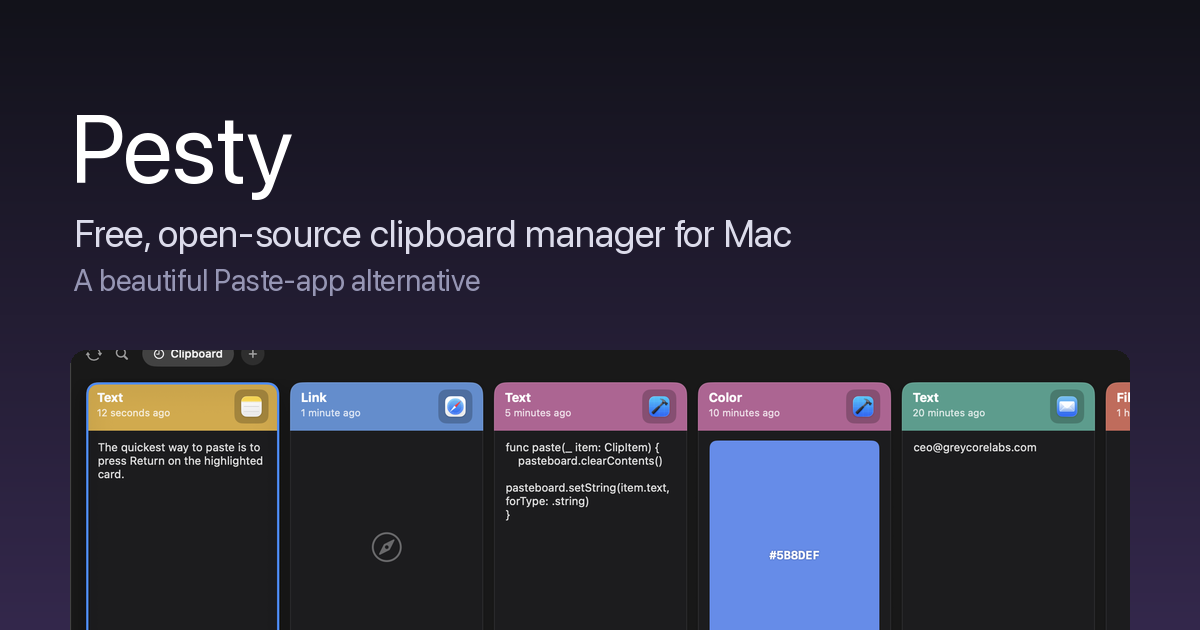
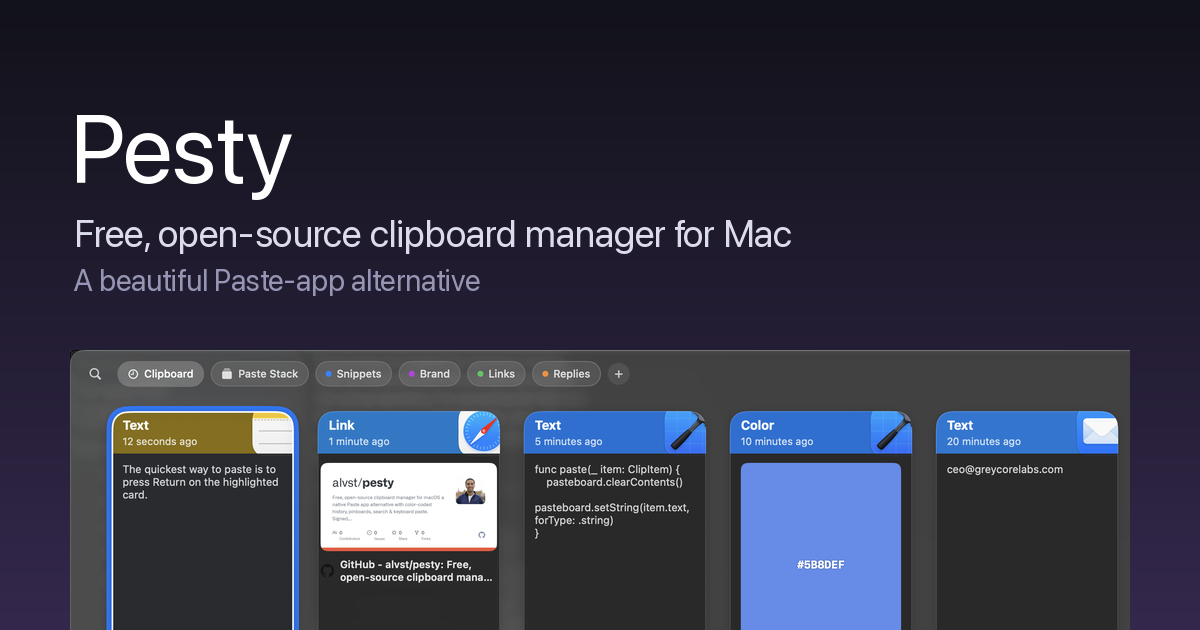
Refresh demo screenshots for current UI

Changed region(s): [[0.0308, 0.5429, 0.9558, 1.0]]

diff --git a/iOSApp/Pesty/Domain/DemoLibrary.swift b/iOSApp/Pesty/Domain/DemoLibrary.swift
@@ -30,7 +30,7 @@ enum DemoLibrary {
         var history: [PestyClip] = [
             clip(.text, "The quickest way to paste is to press Return on the highlighted card.",
                  app: "Notes", bundle: "com.apple.Notes", ago: 12),
-            clip(.link, "https://github.com/momenbasel/pesty",
+            clip(.link, "https://github.com/alvst/pesty",
                  app: "Safari", bundle: "com.apple.Safari", ago: 90),
             clip(.text, "func paste(_ item: ClipItem) {\n    pasteboard.clearContents()\n    pasteboard.setString(item.text, forType: .string)\n}",
                  app: "Xcode", bundle: "com.apple.dt.Xcode", ago: 340),

diff --git a/Sources/Pesty/Util/DemoSeed.swift b/Sources/Pesty/Util/DemoSeed.swift
@@ -14,7 +14,7 @@ extension ClipboardStore {
                      sourceBundleID: "com.apple.Notes", sourceAppName: "Notes",
                      createdAt: now.addingTimeInterval(-12)),
             ClipItem(type: .link,
-                     text: "https://github.com/momenbasel/pesty",
+                     text: "https://github.com/alvst/pesty",
                      sourceBundleID: "com.apple.Safari", sourceAppName: "Safari",
                      createdAt: now.addingTimeInterval(-90)),
             ClipItem(type: .text,
